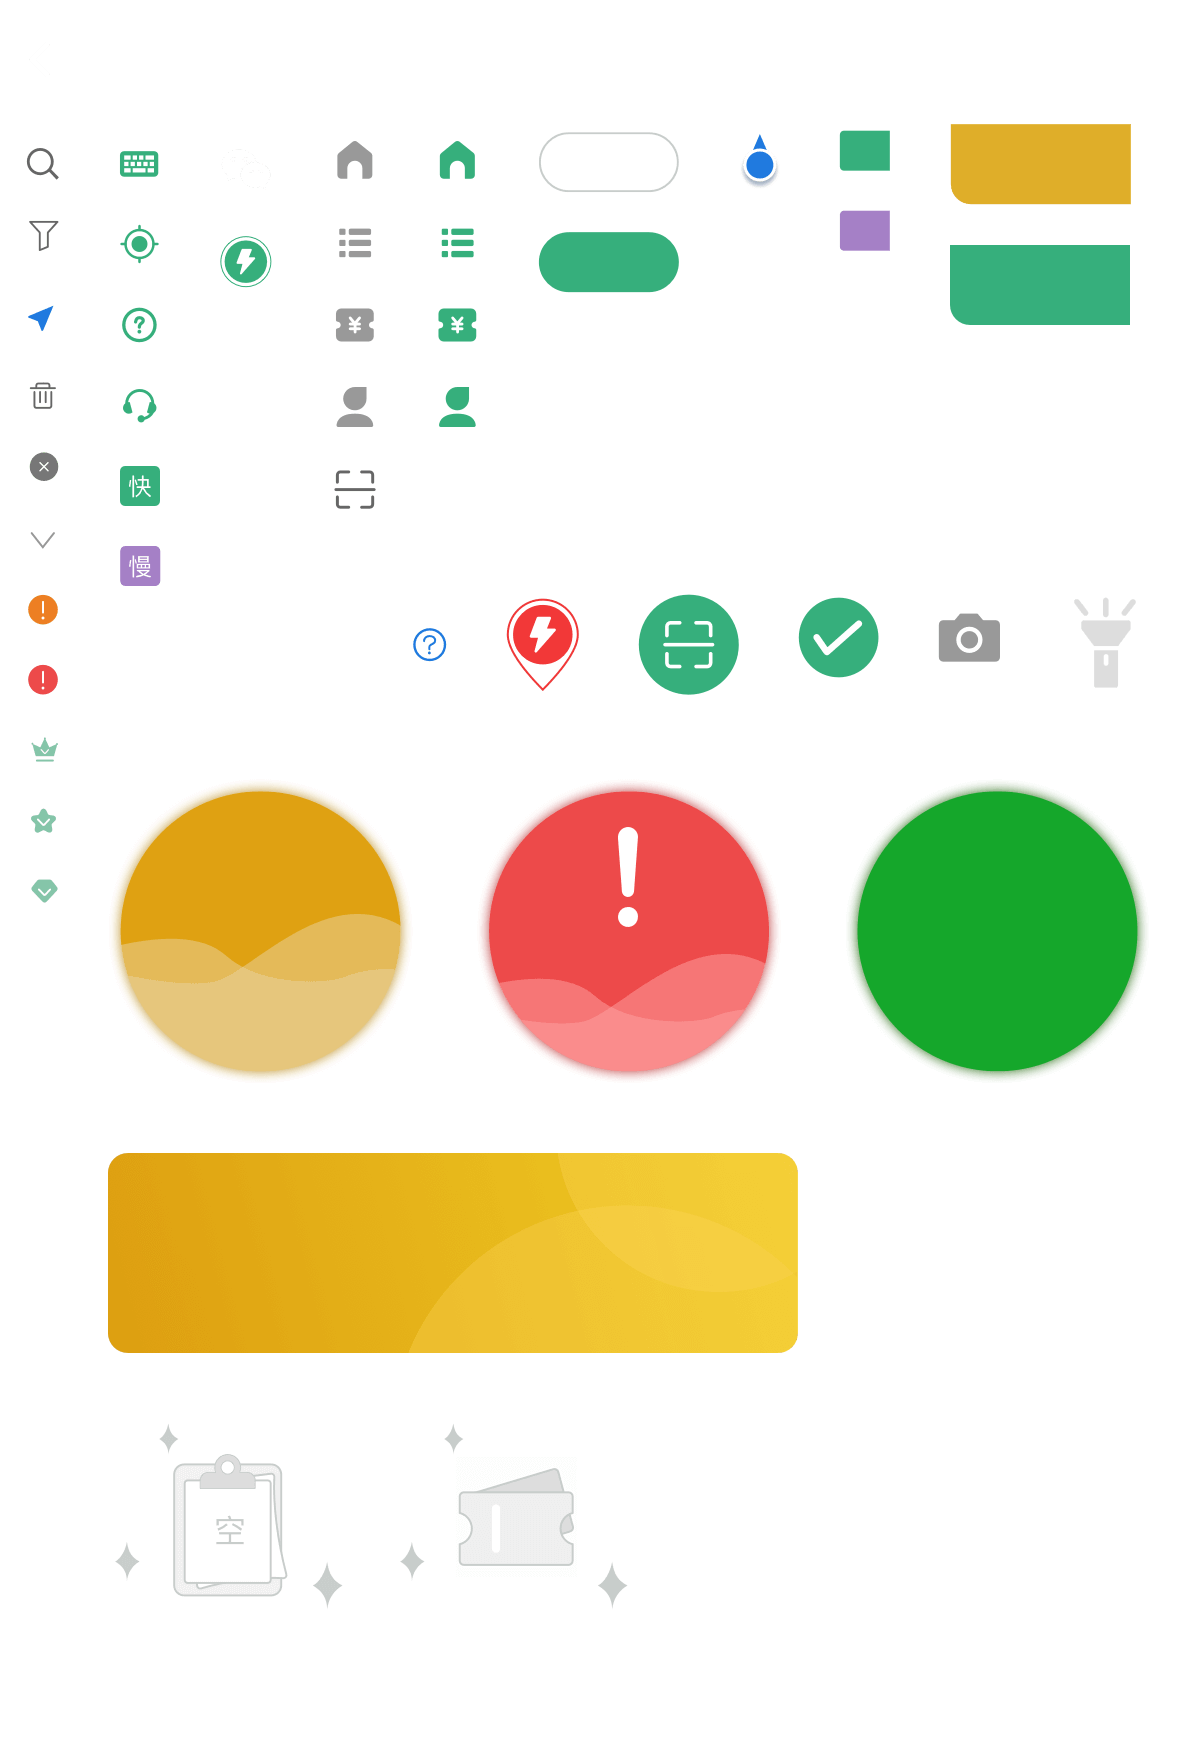
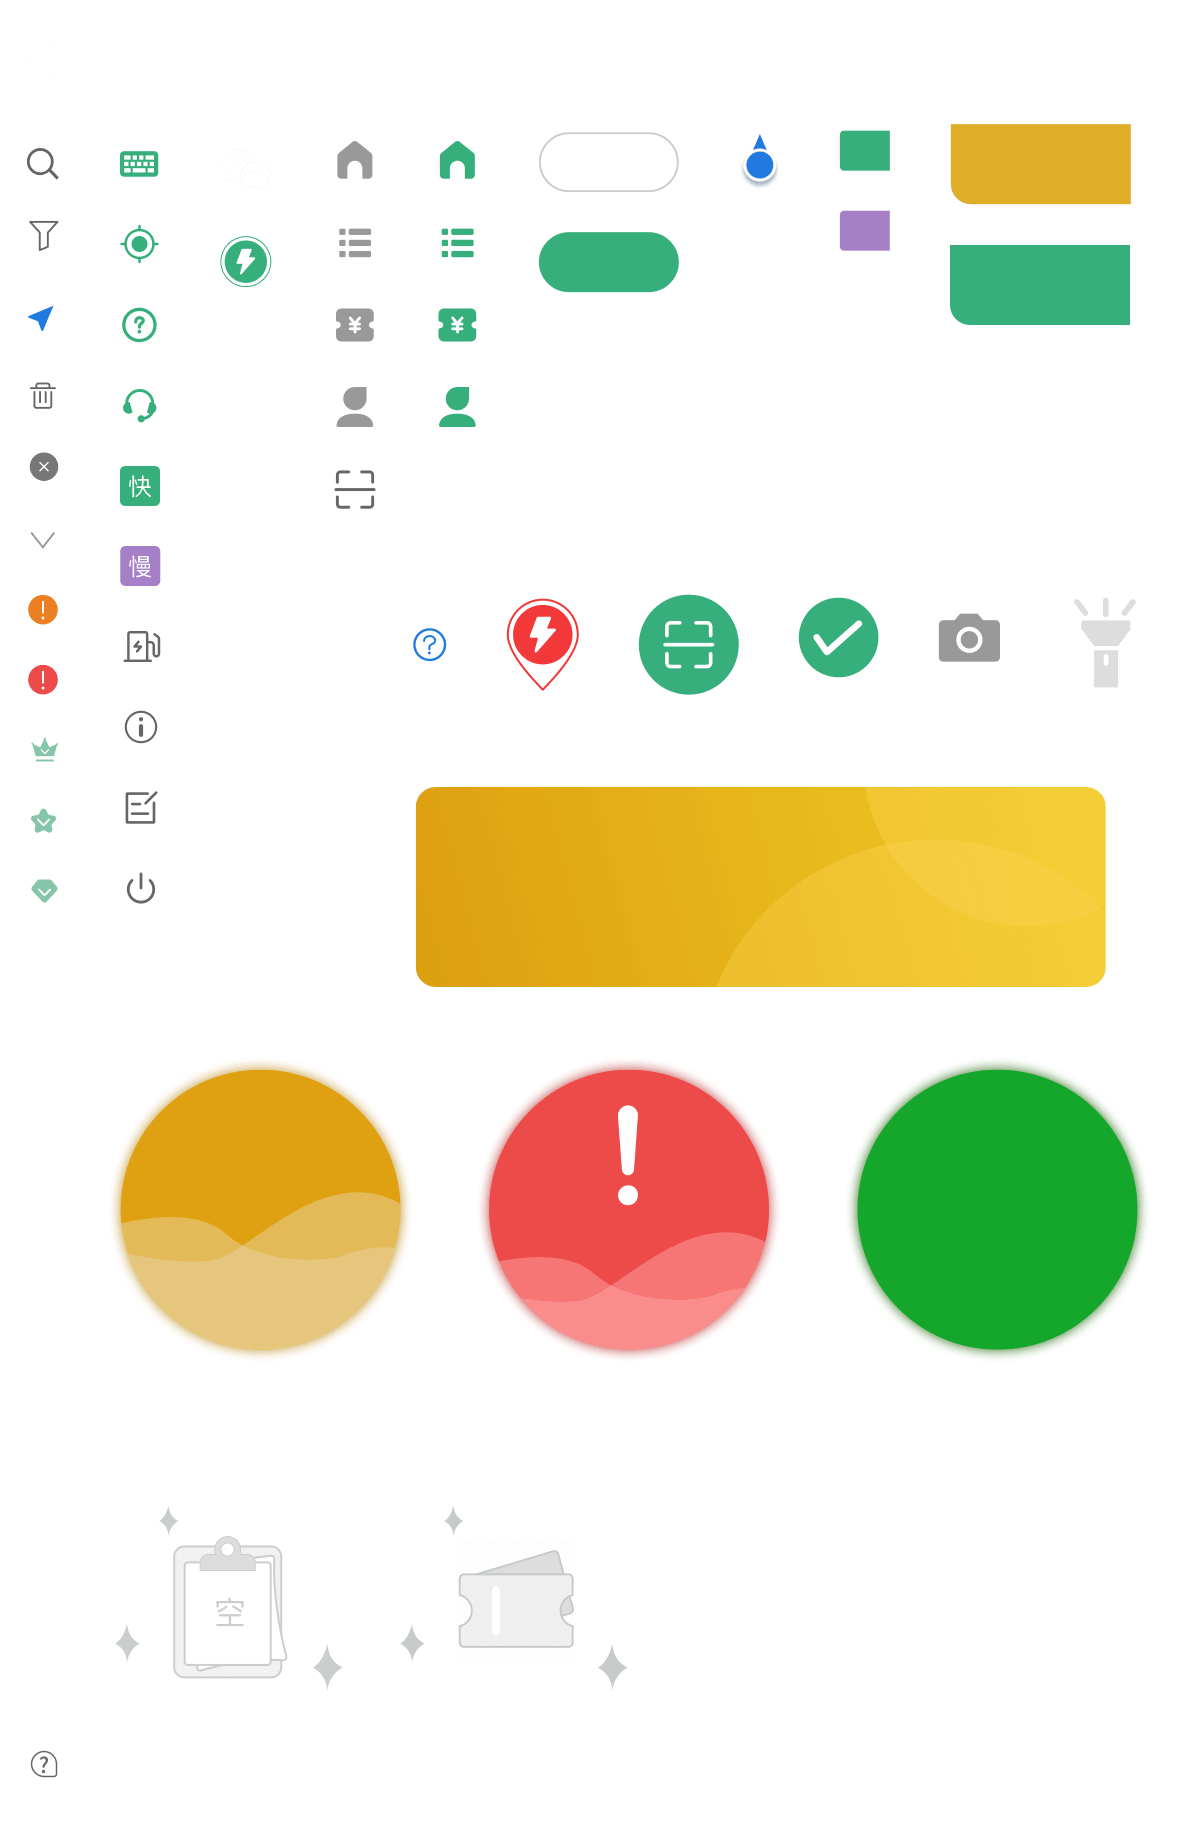
20220223

diff --git a/background 背景/css/index.css b/background 背景/css/index.css
@@ -1,1 +1,1 @@
-section{border:solid 1px deeppink}.one{width:100%;height:2200px;background:url("../../imgs/scenery.jpeg") no-repeat;background-size:cover}.two{background-color:#000}.two>div{width:700px;height:550px;border-right:solid 1px deepskyblue;background:url("../../imgs/all.png") no-repeat -80px -700px,url("../../imgs/lizard.png") no-repeat,url("../../imgs/ink.jpeg") no-repeat}.three{width:100px;height:100px}.last{display:inline-block;width:30px;height:30px;background-image:url("../../imgs/all.png");background-repeat:no-repeat;background-position:-30px -878px}.sprit{display:inline-block;background-image:url("../../imgs/all.png");background-repeat:no-repeat}.smallImg{background-size:595px 882px}.four{width:500px;height:500px;background-position:-30px -878px}.five{width:400px;height:400px;background-position:-15px -439px;background-size:595px 882px}.six{width:15px;height:15px;background-position:-15px -439px}.seven{margin-top:20px;width:690px;height:200px;background-position:-108px -1153px}
+section{border:solid 1px deeppink}.one{width:100%;height:2200px;background:url("../../imgs/scenery.jpeg") no-repeat;background-size:cover}.two{background-color:#000}.two>div{width:700px;height:550px;border-right:solid 1px deepskyblue;background:url("../../imgs/all.png") no-repeat -80px -700px,url("../../imgs/lizard.png") no-repeat,url("../../imgs/ink.jpeg") no-repeat}.three{width:100px;height:100px}.last{display:inline-block;width:30px;height:30px;background-image:url("../../imgs/all.png");background-repeat:no-repeat;background-position:-30px -878px}.sprit{display:inline-block;background-image:url("../../imgs/all.png");background-repeat:no-repeat}.smallImg{background-size:595px 919px}.four{width:500px;height:500px;background-position:-30px -878px}.five{width:400px;height:400px;background-position:-15px -439px;background-size:595px 919px}.six{width:15px;height:15px;background-position:-15px -439px}.seven{margin-top:20px;width:690px;height:200px;background-position:-416px -787px}.eight{width:35px;height:35px;background-position:-413px -628px}.nine{width:33px;height:33px;background-position:-27px -148px}.ten{width:30px;height:30px;background-position:-30px -807px}.eleven{width:30px;height:30px;background-position:-30px -736px}

diff --git a/background 背景/index.scss b/background 背景/index.scss
@@ -74,7 +74,7 @@ section {
 }
 
 .smallImg {
-  background-size: 595px 882px;
+  background-size: 595px 919px;
 }
 
 .four {
@@ -83,11 +83,12 @@ section {
   background-position: -30px -878px;
 }
 
+// 相当于把图伸缩, 但图的纵横比不变
 .five {
   width: 400px;
   height: 400px;
   background-position: -15px -439px;
-  background-size: 595px 882px;
+  background-size: 595px 919px;
   // css可以通过background-size属性来设定背景图片的大小。它可以是像素（px）或者是百分比(%)。
   // 如background-size:950px 200px这表示把背景图片大小调整为宽度950像素，高度200像素。
 }
@@ -101,9 +102,36 @@ section {
 
 // 还是换成小程序的 rpx 思路, 也就是只用换单位, 数值不变
 // 记得加 background-size: 1190rpx 1763rpx;
+// 现在变为 1190 * 1837
+// 更换图片, 先找原背景图图尺寸, 再看有没有加 background-size 来控制伸缩, 有则同比例伸缩
 .seven {
   margin-top: 20px;
   width: 690px;
   height: 200px;
-  background-position: -108px -1153px;
+  // background-position: -108px -1153px;
+  background-position: -416px -787px;
+}
+
+.eight {
+  width: 35px;
+  height: 35px;
+  background-position: -413px -628px;
+}
+
+.nine {
+  width: 33px;
+  height: 33px;
+  background-position: -27px -148px;
+}
+
+.ten {
+  width: 30px;
+  height: 30px;
+  background-position: -30px -807px;
+}
+
+.eleven {
+  width: 30px;
+  height: 30px;
+  background-position: -30px -736px;
 }

diff --git a/background 背景/index.html b/background 背景/index.html
@@ -16,10 +16,14 @@
 
   <h4 class="up_down">找精灵图位置</h4>
   <section class="last"></section>
+  <section class="eleven sprit"></section>
+  <section class="ten sprit"></section>
+  <section class="nine sprit"></section>
+  <section class="eight sprit"></section>
   <section class="seven sprit"></section>
   <hr class="up_down">
 
-  <h4 class="up_down">找精灵图位置, 第二个图改变了尺寸, 第三个图一样</h4>
+  <h4 class="up_down">找精灵图位置, 第二个改变 background-size, 第三个一样</h4>
   <section class="four sprit"></section>
   <section class="five sprit smallImg"></section>
   <section class="six sprit smallImg"></section>

diff --git a/img 间距 后跟div间距/index.scss b/img 间距 后跟div间距/index.scss
@@ -9,12 +9,14 @@ body {
 
 .moren {
   img {
+    // 注意是给 img 加的样式
     vertical-align: baseline;
   }
 }
 
 img {
   // 推荐
+  // 注意是给 img 加的样式
   vertical-align: bottom; // top middle baseline(默认) bottom
 
   // display: block; // 也可以解决间距问题
